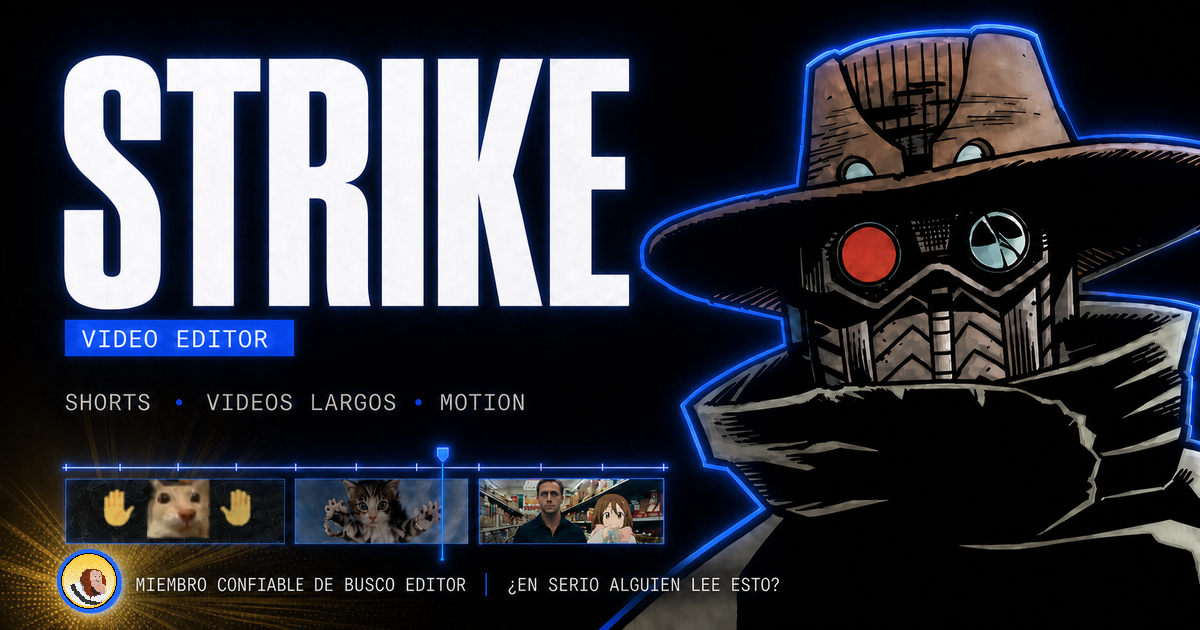
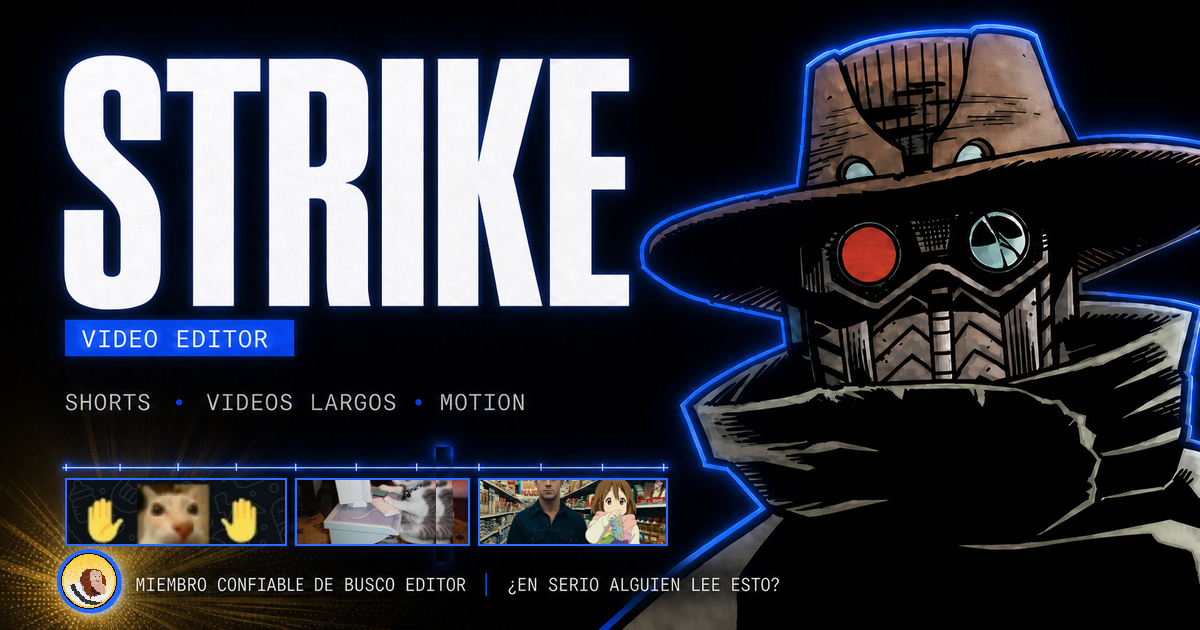
Animate social preview with motion graphics

Changed region(s): [[0.0308, 0.6937, 0.555, 0.9048]]

diff --git a/app/layout.tsx b/app/layout.tsx
@@ -5,7 +5,8 @@ const basePath = process.env.NEXT_PUBLIC_BASE_PATH ?? "";
 const siteUrl =
   process.env.NEXT_PUBLIC_SITE_URL ??
   "https://strike-editor-portfolio.strike2911.chatgpt.site";
-const socialImage = `${siteUrl.replace(/\/$/, "")}/og.png?v=20260803-trust`;
+const socialGif = `${siteUrl.replace(/\/$/, "")}/og.gif?v=20260803-motion`;
+const socialImage = `${siteUrl.replace(/\/$/, "")}/og.png?v=20260803-motion`;
 
 export const metadata: Metadata = {
   metadataBase: new URL(siteUrl),
@@ -22,9 +23,17 @@ export const metadata: Metadata = {
       "Shorts, videos largos y motion para creadores de contenido.",
     images: [
       {
+        url: socialGif,
+        width: 960,
+        height: 504,
+        type: "image/gif",
+        alt: "Strike — reel animado de video editor",
+      },
+      {
         url: socialImage,
         width: 1200,
         height: 630,
+        type: "image/png",
         alt: "Strike — video editor de shorts, videos largos y motion",
       },
     ],

diff --git a/scripts/build-social-gif.py b/scripts/build-social-gif.py
@@ -1,0 +1,222 @@
+from __future__ import annotations
+
+import math
+import random
+from pathlib import Path
+
+from PIL import Image, ImageChops, ImageDraw, ImageEnhance, ImageFilter, ImageOps
+
+
+ROOT = Path(__file__).resolve().parents[1]
+BASE_PATH = ROOT / "public" / "og.png"
+FRAMES_DIR = ROOT / "work" / "social-gif-frames"
+
+CAT_HANDS = Path(
+    r"C:\Users\kingc\AppData\Local\Temp\codex-clipboard-d870e71a-c280-4747-be93-412aeb0cbe0f.png"
+)
+RYAN = Path(
+    r"C:\Users\kingc\AppData\Local\Temp\codex-clipboard-4ed65f37-15ef-46e1-a572-ae41019d8cfa.png"
+)
+CAT_PC = Path(
+    r"C:\Users\kingc\AppData\Local\Temp\codex-clipboard-500d31bb-c49d-4b95-a7fb-06b71de0f557.png"
+)
+
+WIDTH, HEIGHT = 1200, 630
+FPS = 12
+DURATION = 6
+FRAME_COUNT = FPS * DURATION
+
+# Exact timeline windows in the approved 1200 x 630 card.
+CLIPS = (
+    (65, 478, 286, 545),
+    (295, 478, 469, 545),
+    (478, 478, 667, 545),
+)
+
+
+def cover_without_distortion(source: Image.Image, box: tuple[int, int, int, int]) -> Image.Image:
+    """Crop to fill while preserving the original aspect ratio."""
+    target_w = box[2] - box[0]
+    target_h = box[3] - box[1]
+    return ImageOps.fit(
+        source.convert("RGB"),
+        (target_w, target_h),
+        method=Image.Resampling.LANCZOS,
+        centering=(0.5, 0.5),
+    )
+
+
+def radial_glow(
+    size: tuple[int, int],
+    center: tuple[int, int],
+    radius: int,
+    color: tuple[int, int, int],
+    opacity: int,
+) -> Image.Image:
+    layer = Image.new("RGBA", size, (0, 0, 0, 0))
+    draw = ImageDraw.Draw(layer)
+    x, y = center
+    draw.ellipse(
+        (x - radius // 3, y - radius // 3, x + radius // 3, y + radius // 3),
+        fill=(*color, opacity),
+    )
+    return layer.filter(ImageFilter.GaussianBlur(radius // 2))
+
+
+def screen(base: Image.Image, effect: Image.Image) -> Image.Image:
+    rgb = ImageChops.screen(base.convert("RGB"), effect.convert("RGB"))
+    alpha = ImageChops.lighter(base.getchannel("A"), effect.getchannel("A"))
+    return Image.merge("RGBA", (*rgb.split(), alpha))
+
+
+def prepare_base() -> Image.Image:
+    base = Image.open(BASE_PATH).convert("RGBA")
+    if base.size != (WIDTH, HEIGHT):
+        base = base.resize((WIDTH, HEIGHT), Image.Resampling.LANCZOS)
+
+    sources = (CAT_HANDS, CAT_PC, RYAN)
+    for source_path, box in zip(sources, CLIPS):
+        with Image.open(source_path) as source:
+            clip = cover_without_distortion(source, box)
+        base.paste(clip, box[:2])
+
+    # Restore crisp clip borders after placing the undistorted source images.
+    border = ImageDraw.Draw(base)
+    for box in CLIPS:
+        border.rectangle(box, outline=(43, 111, 255, 235), width=2)
+
+    # Remove the baked-in playhead so the animated one can move cleanly.
+    base.paste(base.crop((420, 447, 437, 562)), (436, 447))
+    return base
+
+
+def add_motion(base: Image.Image, frame_index: int) -> Image.Image:
+    phase = frame_index / FRAME_COUNT
+    pulse = 0.5 - 0.5 * math.cos(phase * math.tau)
+    frame = base.copy()
+
+    # Deep blue pulse around the avatar and the timeline.
+    blue_glow = radial_glow(
+        frame.size,
+        (970, 300),
+        470,
+        (8, 75, 255),
+        int(18 + 24 * pulse),
+    )
+    frame = screen(frame, blue_glow)
+
+    # Trust badge glow: restrained gold, synced slightly off the blue pulse.
+    gold_pulse = 0.5 + 0.5 * math.sin(phase * math.tau + 0.7)
+    gold_glow = radial_glow(
+        frame.size,
+        (91, 582),
+        150,
+        (255, 174, 28),
+        int(25 + 45 * gold_pulse),
+    )
+    frame = screen(frame, gold_glow)
+
+    # Cinematic diagonal light sweep that never covers the typography heavily.
+    sweep = Image.new("RGBA", frame.size, (0, 0, 0, 0))
+    sweep_draw = ImageDraw.Draw(sweep)
+    sweep_x = int(610 + 760 * math.sin(phase * math.tau))
+    sweep_draw.polygon(
+        [
+            (sweep_x - 120, 0),
+            (sweep_x - 18, 0),
+            (sweep_x + 175, HEIGHT),
+            (sweep_x + 45, HEIGHT),
+        ],
+        fill=(28, 102, 255, 30),
+    )
+    sweep = sweep.filter(ImageFilter.GaussianBlur(22))
+    frame = Image.alpha_composite(frame, sweep)
+
+    # Animated playhead, clip focus and rhythmic editing ticks.
+    motion = Image.new("RGBA", frame.size, (0, 0, 0, 0))
+    draw = ImageDraw.Draw(motion)
+    playhead_phase = phase
+    playhead_x = int(CLIPS[0][0] + (CLIPS[-1][2] - CLIPS[0][0]) * playhead_phase)
+    fade = min(1.0, playhead_phase / 0.07, (1.0 - playhead_phase) / 0.07)
+    playhead_alpha = int(255 * max(0.0, fade))
+    draw.line((playhead_x, 450, playhead_x, 563), fill=(28, 102, 255, playhead_alpha), width=3)
+    draw.polygon(
+        [(playhead_x - 8, 450), (playhead_x + 8, 450), (playhead_x, 461)],
+        fill=(28, 102, 255, playhead_alpha),
+    )
+    for i, box in enumerate(CLIPS):
+        distance = abs((i + 0.5) / 3 - playhead_phase)
+        focus = max(0.0, 1.0 - distance * 5.0)
+        if focus:
+            draw.rectangle(box, outline=(84, 155, 255, int(120 + 135 * focus)), width=3)
+
+    # Moving scan line and tiny equalizer bars sell the motion-graphics language.
+    scan_y = int(448 + 116 * (0.5 - 0.5 * math.cos(phase * math.tau)))
+    draw.line((58, scan_y, 674, scan_y), fill=(130, 190, 255, 55), width=1)
+    for i in range(7):
+        bar_x = 694 + i * 10
+        bar_h = 5 + int(16 * (0.5 + 0.5 * math.sin(phase * math.tau * 3 + i * 0.9)))
+        draw.rounded_rectangle(
+            (bar_x, 535 - bar_h, bar_x + 4, 535),
+            radius=2,
+            fill=(72, 139, 255, 110),
+        )
+    motion = motion.filter(ImageFilter.GaussianBlur(0.35))
+    frame = Image.alpha_composite(frame, motion)
+
+    # Two-frame RGB split accents near the loop beats; confined to STRIKE.
+    beat = frame_index % (FPS * 3)
+    if beat in (1, 2):
+        title = frame.crop((55, 48, 632, 311)).convert("RGB")
+        red, green, blue = title.split()
+        shifted = Image.merge(
+            "RGB",
+            (
+                ImageChops.offset(red, 5, 0),
+                green,
+                ImageChops.offset(blue, -5, 0),
+            ),
+        ).convert("RGBA")
+        frame.alpha_composite(shifted, (55, 48))
+
+    # Subtle cyclic camera push keeps the loop alive without warping anything.
+    zoom = 1.0 + 0.009 * pulse
+    scaled = frame.resize(
+        (round(WIDTH * zoom), round(HEIGHT * zoom)),
+        Image.Resampling.LANCZOS,
+    )
+    left = (scaled.width - WIDTH) // 2
+    top = (scaled.height - HEIGHT) // 2
+    frame = scaled.crop((left, top, left + WIDTH, top + HEIGHT))
+
+    # Deterministic, very light film-grain sparkle.
+    grain = Image.new("RGBA", frame.size, (0, 0, 0, 0))
+    grain_draw = ImageDraw.Draw(grain)
+    rng = random.Random(9200 + frame_index)
+    for _ in range(180):
+        x = rng.randrange(WIDTH)
+        y = rng.randrange(HEIGHT)
+        a = rng.randrange(4, 15)
+        grain_draw.point((x, y), fill=(200, 220, 255, a))
+    frame = Image.alpha_composite(frame, grain)
+    return ImageEnhance.Contrast(frame.convert("RGB")).enhance(1.015)
+
+
+def main() -> None:
+    FRAMES_DIR.mkdir(parents=True, exist_ok=True)
+    for old_frame in FRAMES_DIR.glob("frame-*.png"):
+        old_frame.unlink()
+
+    base = prepare_base()
+    # Save the corrected static fallback with the PC cat and undistorted clips.
+    base.convert("RGB").save(BASE_PATH, "PNG", optimize=True)
+
+    for frame_index in range(FRAME_COUNT):
+        frame = add_motion(base, frame_index)
+        frame.save(FRAMES_DIR / f"frame-{frame_index:03d}.png", optimize=False)
+
+    print(f"Created {FRAME_COUNT} frames at {FPS} fps in {FRAMES_DIR}")
+
+
+if __name__ == "__main__":
+    main()
